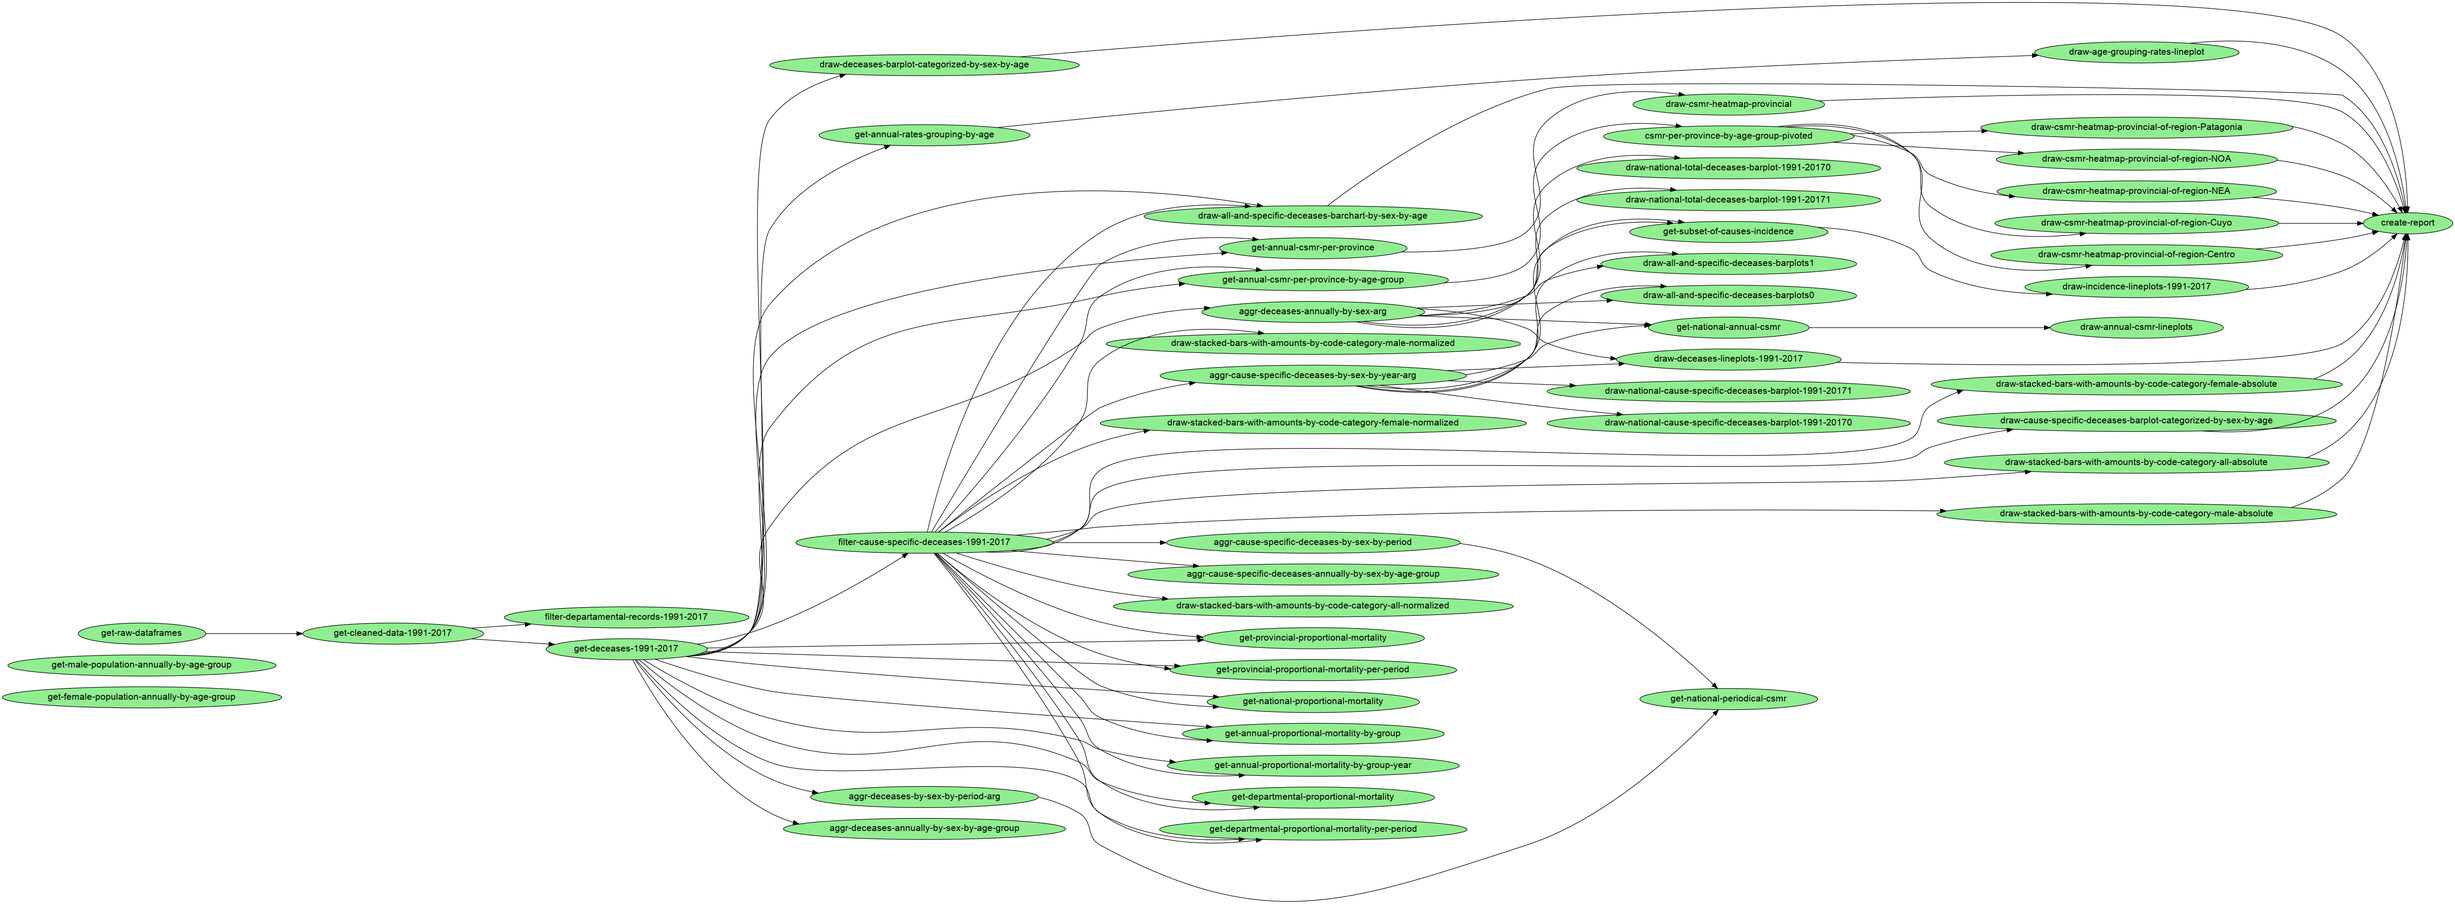
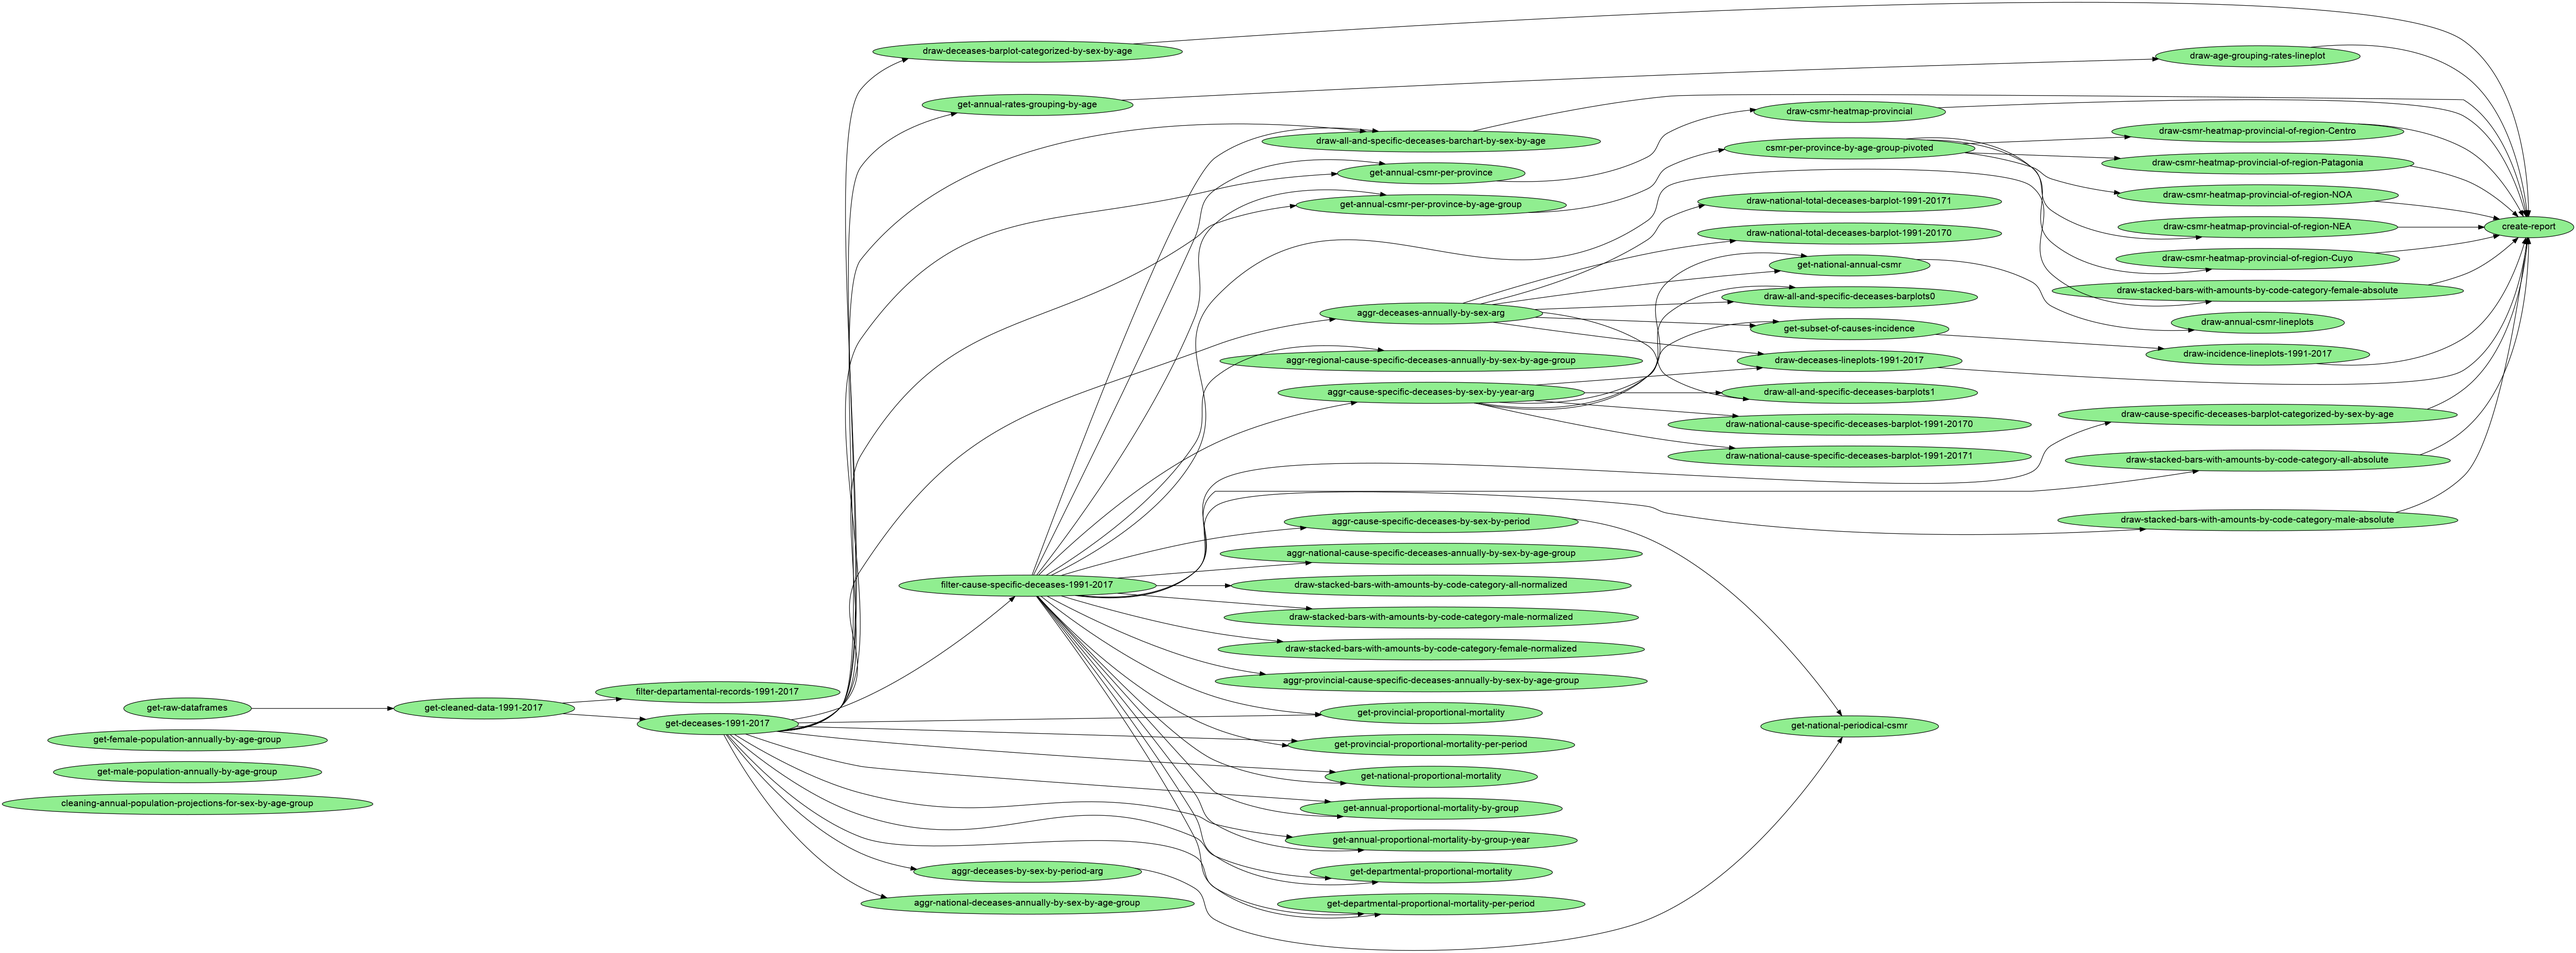
combinar fallecimientos por causas especificas provinciales

diff --git a/tasks/provincial/clean.py b/tasks/provincial/clean.py
@@ -1,0 +1,161 @@
+import pandas
+from surnames_package import utils
+
+
+def cleaningAnnualPopulationProjectionsForSexByAgeGroup(product):
+    # utils functions:
+    def splitDatasetGroups(df):
+        """Analiza el Cuadro 2. Población por sexo y grupos quinquenales de edad. Total del país. Años 2010-2040.
+        Cada hoja de proyecciones tiene una tabla (*) con la información de (máximo) seis años. Por cada año, se presentan tres columnas: Ambos sexo, Varones y Mujeres y para rangos etarios de cinco años.
+        El archivo se completa con con tablas como la anterior, hasta completar el período de 2010 al 2040.
+
+        Se extraen todas las tablas (*) que contienen la información de máximo seis años.
+
+        Args:
+            df (pandas Dataframe): Dataframe
+
+        Returns:
+            list: Lista con dataframes. Cada dataframe tiene las proyecciones de población (total, varones, mujeres) para al menos 6 años.
+        """
+        df = df.dropna(how="all")
+        df = df.dropna(axis="columns", how="all")
+
+        renaming = {df.columns[0]: "description", df.columns[-1]: "ultima"}
+
+        df = df.rename(columns=renaming)
+
+        df = df.reset_index(drop=True)
+
+        # Initialize a list to store DataFrames for each table
+        table_dataframes = []
+
+        # Initialize variables to keep track of the table boundaries
+        start_index = 0  # Start of the current table
+
+        # Iterate through the DataFrame to find and split tables
+        for index, row in df.iterrows():
+            if row["ultima"] == "(continúa)":
+                # Found the end of a table, extract the table data
+                table_df = df.iloc[start_index:index].copy()
+                table_dataframes.append(table_df)
+                start_index = index + 1  # Update the start index for the next table
+
+        # Add the last table (after the last "next" value)
+        table_df = df.iloc[start_index:].copy()
+        table_dataframes.append(table_df)
+
+        return table_dataframes
+
+    def standarizeDfColumns(df):
+        """Renombra las columnas según los valores de las ya existentes.
+        Edad, año, ambos sexos, varones, mujeres --> age_group, total_[año], male_[año], female_[año]
+
+        Args:
+            df (pandas Dataframe): Dataframe con nombre de columna en dos renglones.
+
+        Returns:
+            pandas Dataframe: Toma una tabla con los nombres de columnas a la misma tabla con un renglon.
+        """
+        slice_df = df.dropna(axis="columns", how="all").reset_index(drop=True).copy()
+        years = (
+            slice_df[slice_df["description"] == "Edad"]
+            .loc[0]
+            .dropna()
+            .loc[lambda value: value != "Edad"]
+            .values
+        )
+
+        categories = ["total", "male", "female"]  # Your list of categories
+
+        # Use list comprehension to generate the combined values
+        combined_values = [
+            f"{category}_{year}" for year in years for category in categories
+        ]
+
+        # 'combined_values' now contains the desired values
+        # print(combined_values)
+        new_columns = ["age_group"] + combined_values
+
+        slice_df = slice_df[3:]
+        slice_df.columns = new_columns
+
+        return slice_df.dropna().reset_index(drop=True)
+
+    def extractYearlyData(df):
+        """Transforma dataset con información con años uno al lado del otro en un dataset uno abajo del otro
+
+        Args:
+            df (pandas Dataframe): Información anual en forma horizontal.
+
+        Returns:
+            pandas Dataframe: Información en forma vertical.
+        """
+        # Create separate DataFrames for each year
+        years = sorted(
+            list(
+                set(
+                    map(
+                        lambda e: e.split("_")[-1],
+                        filter(lambda e: e != "age_group", df.columns.values),
+                    )
+                )
+            )
+        )
+
+        yearly_data = {}
+
+        for year in years:
+            total_col = f"total_{year}"
+            female_col = f"male_{year}"
+            male_col = f"female_{year}"
+
+            year_df = df[["age_group", total_col, female_col, male_col]].copy()
+
+            year_df = year_df.rename(
+                columns={
+                    f"total_{year}": "total",
+                    f"male_{year}": "male",
+                    f"female_{year}": "female",
+                }
+            )
+
+            year_df["year"] = year
+
+            yearly_data[year] = year_df
+
+        # se preserva yearly_data como diccionario por futuro mantenimiento.
+
+        return pandas.concat(yearly_data.values())
+
+    data_in_excel_path = "/home/lmorales/work/pipelines/epidemiology_pipeline/public-data/c2_proyecciones_prov_2010_2040 (1).xls"
+    xl = pandas.ExcelFile(data_in_excel_path)
+
+    sheet_names = xl.sheet_names[
+        2:
+    ]  # all sheet names menos 'GraphData', '01-TOTAL DEL PAÍS',
+
+    provincial_data = {}
+
+    for province_sheet_name in sheet_names:
+        df = pandas.read_excel(
+            data_in_excel_path,
+            sheet_name=province_sheet_name,
+        )
+
+        table_dataframes = splitDatasetGroups(df)
+
+        population_df = pandas.concat(
+            [
+                extractYearlyData(standarizeDfColumns(table_dataframe_i))
+                for table_dataframe_i in table_dataframes
+            ]
+        ).reset_index(drop=True)
+
+        population_df["province"] = utils.PROVINCE_NAME_BY_ID.get(
+            province_sheet_name.split("-")[0], "NOT-FOUND"
+        )
+
+        provincial_data[province_sheet_name] = population_df
+
+    output_df = pandas.concat(provincial_data.values()).reset_index(drop=True)
+    output_df.to_parquet(str(product))

diff --git a/tasks/regional/aggr.py b/tasks/regional/aggr.py
@@ -1,0 +1,49 @@
+import pandas
+from epidemiology_package.constants import SEX_CODE_MAPPING
+from surnames_package import utils
+
+
+def aggrCauseSpecificDeceasesAnnuallyBySexByAgeGroup(
+    upstream, product, age_category_order
+):
+    """Retorna las cantidades anuales de fallecimientos por causas específicas en cada región (código), agrupadas por sex y grupo etario.
+
+    Args:
+        upstream (_type_): Input
+        product (_type_): Output
+        age_category_order (list): Lista con el orden de las etiquetas de agrupamiento etario
+
+    Returns:
+        pandas.DataFrame: Datos agrupados.
+    """
+    df = pandas.read_parquet(str(upstream["filter-cause-specific-deceases-1991-2017"]))
+
+    df["sex"] = df["sexo"].astype(str).map(SEX_CODE_MAPPING)
+    df["region"] = df["provincia_id"].map(utils.REGION_BY_PROVINCE_CODE_DICT.get)
+    workingColumns = ["codigo_defuncion", "sex", "year", "age_group", "region"]
+
+    df = df[workingColumns].copy()
+    df = df[df["sex"].isin(["male", "female"])]
+
+    age_category_order_dict = {
+        category: order
+        for category, order in zip(age_category_order, range(len(age_category_order)))
+    }
+
+    counts_df = (
+        df.groupby(["region", "year", "sex", "age_group"])
+        .count()
+        .rename(columns=dict(codigo_defuncion="cause_specific_deceases"))
+        .reset_index()
+    )
+
+    output_df = (
+        counts_df.assign(
+            age_group_order=counts_df["age_group"].map(age_category_order_dict)
+        )
+        .sort_values(by=["region", "year", "sex", "age_group_order"])
+        .drop(columns="age_group_order")
+        .reset_index(drop=True)
+    )
+
+    output_df.to_parquet(str(product))

diff --git a/tasks/provincial/aggr.py b/tasks/provincial/aggr.py
@@ -1,0 +1,49 @@
+import pandas
+from epidemiology_package import cleanning
+from epidemiology_package.constants import SEX_CODE_MAPPING
+
+
+def aggrCauseSpecificDeceasesAnnuallyBySexByAgeGroup(
+    upstream, product, age_category_order
+):
+    """Retorna las cantidades anuales de fallecimientos por causas específicas en para cada provincia (código), agrupadas por sex y grupo etario.
+
+    Args:
+        upstream (_type_): Input
+        product (_type_): Output
+        age_category_order (list): Lista con el orden de las etiquetas de agrupamiento etario
+
+    Returns:
+        pandas.DataFrame: Datos agrupados.
+    """
+    df = pandas.read_parquet(str(upstream["filter-cause-specific-deceases-1991-2017"]))
+
+    df["sex"] = df["sexo"].astype(str).map(SEX_CODE_MAPPING)
+
+    workingColumns = ["codigo_defuncion", "sex", "year", "age_group", "provincia_id"]
+
+    df = df[workingColumns].copy()
+    df = df[df["sex"].isin(["male", "female"])]
+
+    age_category_order_dict = {
+        category: order
+        for category, order in zip(age_category_order, range(len(age_category_order)))
+    }
+
+    counts_df = (
+        df.groupby(["year", "provincia_id", "sex", "age_group"])
+        .count()
+        .rename(columns=dict(codigo_defuncion="cause_specific_deceases"))
+        .reset_index()
+    )
+
+    output_df = (
+        counts_df.assign(
+            age_group_order=counts_df["age_group"].map(age_category_order_dict)
+        )
+        .sort_values(by=["year", "provincia_id", "sex", "age_group_order"])
+        .drop(columns="age_group_order")
+        .reset_index(drop=True)
+    )
+
+    output_df.to_parquet(str(product))

diff --git a/tasks/national/aggr.py b/tasks/national/aggr.py
@@ -400,7 +400,7 @@ def aggrDeceasesAnnuallyBySexByAgeGroup(upstream, product, age_category_order):
 def aggrCauseSpecificDeceasesAnnuallyBySexByAgeGroup(
     upstream, product, age_category_order
 ):
-    """Retorna las cantidades anuales de fallecimientos por causas específicas en toda la Argentina, agrupadas por sex y grupoetario.
+    """Retorna las cantidades anuales de fallecimientos por causas específicas en toda la Argentina, agrupadas por sex y grupo etario.
 
     Args:
         upstream (_type_): Input

diff --git a/src/epidemiology_package/constants.py b/src/epidemiology_package/constants.py
@@ -1,0 +1,7 @@
+SEX_CODE_MAPPING = {
+    "1": "male",
+    "2": "female",
+    "9": "undetermined",
+    "3": "undetermined",
+    "99": "undetermined",
+}
